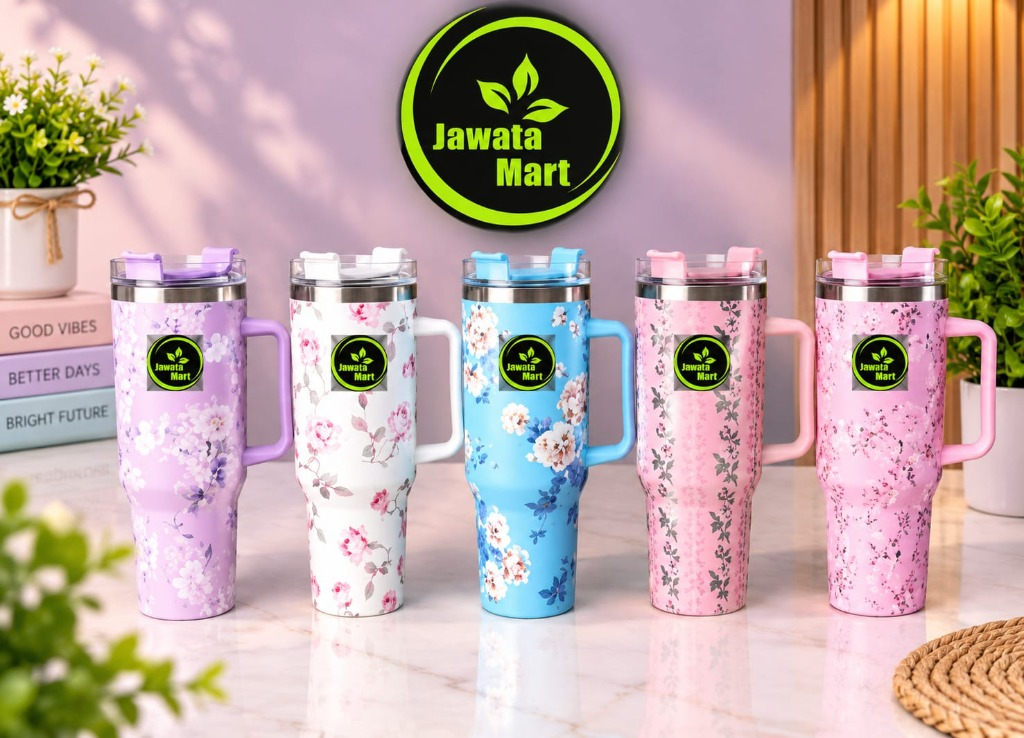
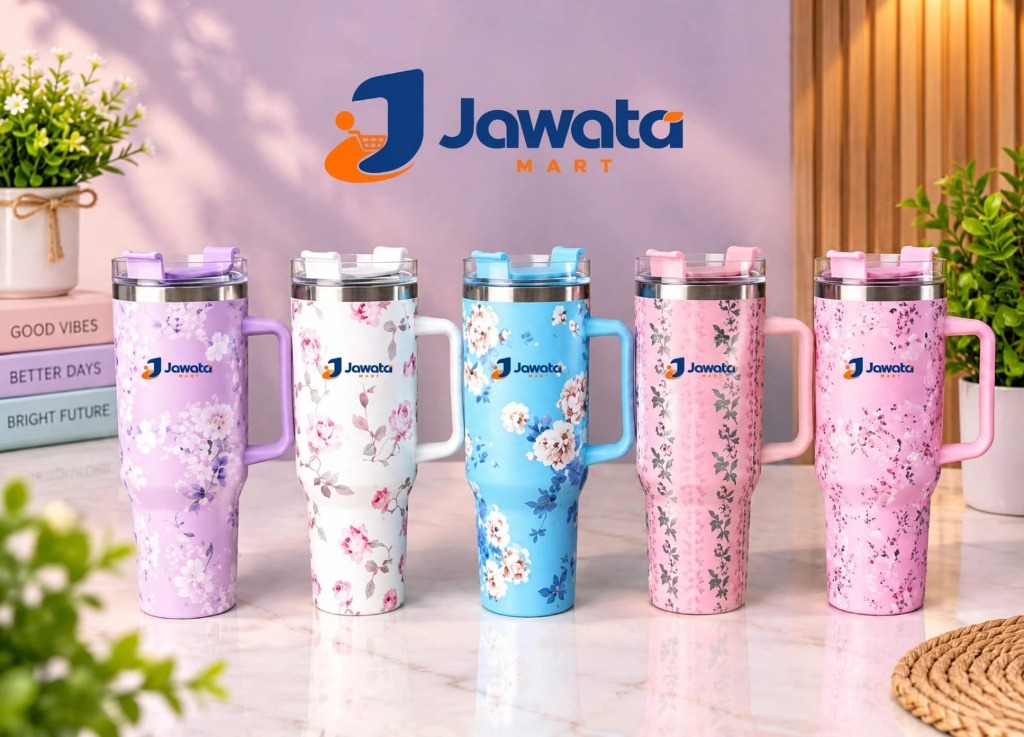
feat(catalog): update waterpot/tumbler pictures with official branded visuals and add floral tumbler product

diff --git a/apps/web/src/lib/sample-data.ts b/apps/web/src/lib/sample-data.ts
@@ -313,105 +313,6 @@ export const INITIAL_CATEGORIES: CategoryItem[] = [
 ];
 export const INITIAL_PRODUCTS: ProductItem[] = [
   {
-    id: 'p-fas-mens-panjabi',
-    name: "Premium Semi-Long Cotton Embroidered Men's Panjabi",
-    slug: 'premium-semi-long-cotton-embroidered-mens-panjabi',
-    categoryId: 'cat-fashion',
-    categoryName: 'Fashion',
-    categorySlug: 'fashion',
-    subCategoryId: 'sub-mens-fashion',
-    subCategoryName: "Men's Fashion & Panjabi",
-    subCategorySlug: 'mens-fashion',
-    brand: 'Jawata Mart',
-    price: 1850,
-    originalPrice: 2450,
-    discount: 24,
-    stock: 45,
-    sku: 'FAS-PANJ-01',
-    image: 'https://images.unsplash.com/photo-1597983073493-88cd35cf93b0?w=600&h=600&fit=crop',
-    images: ['https://images.unsplash.com/photo-1597983073493-88cd35cf93b0?w=600&h=600&fit=crop'],
-    description: '100% fine cotton fabric with subtle collar and placket embroidery. Highly comfortable for Eid, Jummah, weddings, and formal occasions.',
-    specifications: {
-      Fabric: '100% Pure Combed Cotton',
-      Cut: 'Slim-Regular Semi-Long Fit',
-      Collar: 'Band / Mandarin Collar with Embroidery',
-      Occasion: 'Festive, Traditional, Eid, Casual',
-    },
-    badge: 'Trending',
-    isFeatured: true,
-    isBestSeller: true,
-    isNew: true,
-    isActive: true,
-    rating: 4.9,
-    reviewCount: 38,
-  },
-  {
-    id: 'p-fas-oxford-shirt',
-    name: "Men's Smart Casual 100% Cotton Oxford Long Sleeve Shirt",
-    slug: 'mens-smart-casual-100-cotton-oxford-long-sleeve-shirt',
-    categoryId: 'cat-fashion',
-    categoryName: 'Fashion',
-    categorySlug: 'fashion',
-    subCategoryId: 'sub-casual-shirts-polo',
-    subCategoryName: 'Casual Shirts & Polo',
-    subCategorySlug: 'casual-shirts-polo',
-    brand: 'Jawata Mart',
-    price: 1250,
-    originalPrice: 1650,
-    discount: 24,
-    stock: 60,
-    sku: 'FAS-SHIRT-03',
-    image: 'https://images.unsplash.com/photo-1602810318383-e386cc2a3ccf?w=600&h=600&fit=crop',
-    images: ['https://images.unsplash.com/photo-1602810318383-e386cc2a3ccf?w=600&h=600&fit=crop'],
-    description: 'Breathable, wrinkle-resistant premium Oxford cotton casual shirt with button-down collar. Perfect for office, university, or evening outings.',
-    specifications: {
-      Material: '100% Pre-washed Oxford Cotton',
-      Fit: 'Modern Smart Fit',
-      Sleeve: 'Long Sleeve with Adjustable Cuffs',
-      Pocket: 'Single Chest Patch Pocket',
-    },
-    badge: 'Best Value',
-    isFeatured: true,
-    isBestSeller: false,
-    isNew: true,
-    isActive: true,
-    rating: 4.8,
-    reviewCount: 29,
-  },
-  {
-    id: 'p-fas-leather-belt-wallet',
-    name: "Genuine Leather Men's Formal Belt & Bi-fold Wallet Gift Combo",
-    slug: 'genuine-leather-mens-formal-belt-bi-fold-wallet-gift-combo',
-    categoryId: 'cat-fashion',
-    categoryName: 'Fashion',
-    categorySlug: 'fashion',
-    subCategoryId: 'sub-fashion-accessories',
-    subCategoryName: 'Fashion Accessories & Belts',
-    subCategorySlug: 'fashion-accessories',
-    brand: 'Jawata Mart',
-    price: 1150,
-    originalPrice: 1500,
-    discount: 23,
-    stock: 50,
-    sku: 'FAS-ACC-05',
-    image: 'https://images.unsplash.com/photo-1627123424574-724758594e93?w=600&h=600&fit=crop',
-    images: ['https://images.unsplash.com/photo-1627123424574-724758594e93?w=600&h=600&fit=crop'],
-    description: 'Handcrafted top-grain cowhide leather belt with brushed alloy buckle paired with a multi-card RFID-protected leather bi-fold wallet in a gift box.',
-    specifications: {
-      Material: '100% Genuine Top Grain Cow Leather',
-      BeltLength: 'Adjustable 32 - 42 inches',
-      WalletCapacity: '8 Card Slots, 2 Cash Compartments, ID Window',
-      Packaging: 'Luxury Matte Black Gift Box Included',
-    },
-    badge: 'Gift Choice',
-    isFeatured: true,
-    isBestSeller: false,
-    isNew: true,
-    isActive: true,
-    rating: 5.0,
-    reviewCount: 25,
-  },
-  {
     id: 'p-org-pure-cow-ghee',
     name: 'Jawata Mart Special Offer Danadar Pure Cow Ghee (খাঁটি দানাদার গাওয়া ঘি - ৫০০ গ্রাম)',
     slug: 'jawata-mart-special-offer-danadar-pure-cow-ghee-500g',
@@ -2115,36 +2016,6 @@ export const INITIAL_PRODUCTS: ProductItem[] = [
     reviewCount: 320,
   },
 
-  // 6. Gift Item
-  {
-    id: 'p-gift-islamic-box',
-    name: 'Luxury Velvet Islamic Gift Box (Quran, Prayer Mat & Crystal Tasbeeh)',
-    slug: 'luxury-velvet-islamic-gift-box',
-    categoryId: 'cat-gift-item',
-    categoryName: 'Gift Item',
-    categorySlug: 'gift-item',
-    subCategoryId: 'sub-islamic-gift-sets',
-    subCategoryName: 'Islamic Gift Sets',
-    subCategorySlug: 'islamic-gift-sets',
-    brand: 'Jawata Mart',
-    price: 2450,
-    originalPrice: 3200,
-    discount: 23,
-    stock: 30,
-    sku: 'JM-GFT-ISL-01',
-    image: 'https://images.unsplash.com/photo-1513885535751-8b9238bd345a?w=600&h=600&fit=crop',
-    images: ['https://images.unsplash.com/photo-1513885535751-8b9238bd345a?w=600&h=600&fit=crop'],
-    description: 'Gold-embossed Quran Sharif, Turkish plush velvet Janamaz, fragrant Oud Attar, and 99-bead crystal Tasbeeh.',
-    specifications: { 'Box Material': 'Velvet Gift Trunk', 'Contents': 'Quran + Janamaz + Attar + Tasbeeh', 'Occasion': 'Eid, Hajj, Nikah' },
-    badge: 'Premium Gift',
-    isFeatured: true,
-    isBestSeller: true,
-    isNew: true,
-    isActive: true,
-    rating: 5.0,
-    reviewCount: 86,
-  },
-
   // 7. Home Tex
   {
     id: 'p-htex-curtain-luxury',
@@ -2264,6 +2135,45 @@ export const INITIAL_PRODUCTS: ProductItem[] = [
     rating: 4.9,
     reviewCount: 75,
   },
+  {
+    id: 'p-ktc-waterpot-floral-tumbler',
+    name: 'Luxury Insulated Stainless Steel Floral Water Tumbler & Flask (1200ml with Handle & Straw)',
+    slug: 'luxury-insulated-floral-water-tumbler-flask-1200ml',
+    categoryId: 'cat-kitchen-items',
+    categoryName: 'Kitchen Items',
+    categorySlug: 'kitchen-items',
+    subCategoryId: 'sub-kitchen-storage',
+    subCategoryName: 'Kitchen Storage & Organizers',
+    subCategorySlug: 'kitchen-storage',
+    brand: 'Jawata Mart',
+    price: 1450,
+    originalPrice: 1850,
+    discount: 22,
+    stock: 50,
+    sku: 'JM-KTC-TMB-01',
+    image: '/images/banner-tumbler-collection.jpg',
+    images: [
+      '/images/banner-tumbler-collection.jpg',
+      '/images/banner-tumbler-pink-giftbox.jpg',
+      '/images/banner-tumbler-wide.jpg',
+    ],
+    description: 'প্রিমিয়াম ফুড-গ্রেড স্টেইনলেস স্টিল ডাবল-ওয়াল ভ্যাকুয়াম ইনসুলেটেড ফ্লোরাল ওয়াটার পট ও টাম্বলার। দীর্ঘ সময় পানীয় ঠান্ডা বা গরম রাখে। সাথে পাচ্ছেন ম্যাচিং স্ট্র, শক্ত হ্যান্ডেল এবং প্রিমিয়াম গিফট বক্স।',
+    specifications: {
+      'ধারণক্ষমতা (Capacity)': '1200 ml / 40 oz',
+      'উপাদান (Material)': 'Food Grade 304 Stainless Steel (BPA Free)',
+      'তাপ ধরে রাখার ক্ষমতা': '১২+ ঘন্টা গরম এবং ২৪+ ঘন্টা ঠান্ডা',
+      'এক্সেসরিজ': 'প্রিমিয়াম স্ট্র ও কমফোর্টেবল হ্যান্ডেল সহ',
+      'প্যাকেজিং': 'এক্সক্লুসিভ ফ্লোরাল গিফট বক্স',
+    },
+    badge: 'Trending',
+    isFeatured: true,
+    isBestSeller: true,
+    isNew: true,
+    isActive: true,
+    rating: 4.9,
+    reviewCount: 38,
+  },
+
 
   // 11. Health Care & Skin Care
   {
@@ -2373,7 +2283,7 @@ export const INITIAL_BANNERS: BannerItem[] = [
     subtitle: '',
     image: '/images/banner-tumbler-collection.jpg',
     ctaText: 'Shop Tumblers',
-    ctaLink: '/category/kitchen-items',
+    ctaLink: '/products/luxury-insulated-floral-water-tumbler-flask-1200ml',
     badge: 'Trending Now',
     order: 2,
     isActive: true,
@@ -2384,7 +2294,7 @@ export const INITIAL_BANNERS: BannerItem[] = [
     subtitle: 'Double-wall stainless steel vacuum flask with matching designer box & straw — keeps drinks fresh for hours.',
     image: '/images/banner-tumbler-pink-giftbox.jpg',
     ctaText: 'Explore Tumblers',
-    ctaLink: '/category/kitchen-items',
+    ctaLink: '/products/luxury-insulated-floral-water-tumbler-flask-1200ml',
     badge: 'Premium Gift',
     order: 3,
     isActive: true,
@@ -2540,7 +2450,7 @@ export const INITIAL_REVIEWS = [
     location: 'Uttara, Dhaka',
     rating: 5,
     date: '20 Feb 2026',
-    comment: 'Paid with bKash Send Money. The verification was confirmed within 15 minutes and the Panjabi arrived the next morning. Highly recommended!',
+    comment: 'Paid with bKash Send Money. The verification was confirmed within 15 minutes and the parcel arrived the next morning. Highly recommended!',
     verified: true,
     avatar: 'KU',
   },

diff --git a/apps/web/src/lib/db-service.ts b/apps/web/src/lib/db-service.ts
@@ -1,3 +1,5 @@
+import fs from 'fs';
+import path from 'path';
 import prisma from './prisma';
 import {
   INITIAL_CATEGORIES,
@@ -17,8 +19,54 @@ import {
   PaymentStatus,
 } from './types';
 
+const DELETED_FILE = path.join(process.cwd(), 'data', 'deleted-products.json');
+
+const DEFAULT_BLOCKED_IDS = [
+  'p-fas-mens-panjabi',
+  'p-fas-oxford-shirt',
+  'p-fas-leather-belt-wallet',
+  'p-gift-islamic-box',
+  'p-drv-bag-3pc-ladies-set',
+  'premium-semi-long-cotton-embroidered-mens-panjabi',
+  'mens-smart-casual-100-cotton-oxford-long-sleeve-shirt',
+  'genuine-leather-mens-formal-belt-bi-fold-wallet-gift-combo',
+  'luxury-velvet-islamic-gift-box',
+  'luxury-3-in-1-ladies-backpack-round-crossbody-card-wallet-set',
+];
+
+function loadDeletedIds(): Set<string> {
+  try {
+    if (fs.existsSync(DELETED_FILE)) {
+      const data = JSON.parse(fs.readFileSync(DELETED_FILE, 'utf8'));
+      if (Array.isArray(data)) return new Set([...DEFAULT_BLOCKED_IDS, ...data]);
+    }
+  } catch (err) {
+    // Ignore read errors
+  }
+  return new Set(DEFAULT_BLOCKED_IDS);
+}
+
+function saveDeletedId(idOrSlug: string, additionalSlug?: string) {
+  try {
+    const dir = path.dirname(DELETED_FILE);
+    if (!fs.existsSync(dir)) fs.mkdirSync(dir, { recursive: true });
+    const current = loadDeletedIds();
+    current.add(idOrSlug);
+    if (additionalSlug) current.add(additionalSlug);
+    fs.writeFileSync(DELETED_FILE, JSON.stringify(Array.from(current), null, 2), 'utf8');
+  } catch (err) {
+    console.error('Error saving deleted products file:', err);
+  }
+}
+
+function isNotDeleted(p: any): boolean {
+  if (!p) return false;
+  const del = loadDeletedIds();
+  return !del.has(p.id) && !del.has(p.slug);
+}
+
 // In-memory runtime cache for development/fallback
-let memoryProducts: ProductItem[] = [...INITIAL_PRODUCTS];
+let memoryProducts: ProductItem[] = [...INITIAL_PRODUCTS].filter(isNotDeleted);
 let memoryCategories: CategoryItem[] = [...INITIAL_CATEGORIES];
 let memoryOrders: OrderRecord[] = [
   {
@@ -231,7 +279,7 @@ export const dbService = {
               if (pickle) mapped.push(pickle);
             }
           }
-          const result = mapped.filter(isAllowedOrganicProduct);
+          const result = mapped.filter(isAllowedOrganicProduct).filter(isNotDeleted);
           productCache.set(cacheKey, { data: result, time: Date.now() });
           return result;
         }
@@ -241,7 +289,7 @@ export const dbService = {
     }
 
     // Memory Store Filtering
-    let list = memoryProducts.filter((p) => p.isActive).filter(isAllowedOrganicProduct);
+    let list = memoryProducts.filter((p) => p.isActive).filter(isAllowedOrganicProduct).filter(isNotDeleted);
     if (params?.categorySlug) {
       list = list.filter((p) => p.categorySlug === params.categorySlug);
     }
@@ -280,6 +328,7 @@ export const dbService = {
   },
 
   async getProductBySlug(slug: string): Promise<ProductItem | null> {
+    if (!isNotDeleted({ slug })) return null;
     const hit = singleProductCache.get(slug);
     if (hit && Date.now() - hit.time < CACHE_TTL) {
       return hit.data;
@@ -419,12 +468,17 @@ export const dbService = {
   },
 
   async deleteProduct(id: string): Promise<boolean> {
+    let productSlug = '';
+    const memItem = memoryProducts.find((p) => p.id === id || p.slug === id);
+    if (memItem) productSlug = memItem.slug;
+
     try {
       if (process.env.DATABASE_URL && prisma.product) {
         const existing = await prisma.product.findFirst({
           where: { OR: [{ id }, { slug: id }] },
         });
         if (existing) {
+          productSlug = existing.slug;
           await prisma.productVariant.deleteMany({ where: { productId: existing.id } }).catch(() => {});
           await prisma.review.deleteMany({ where: { productId: existing.id } }).catch(() => {});
           await prisma.orderItem.updateMany({
@@ -438,7 +492,10 @@ export const dbService = {
       console.error('Error permanently deleting product:', e);
     }
 
-    memoryProducts = memoryProducts.filter((p) => p.id !== id && p.slug !== id);
+    saveDeletedId(id, productSlug);
+    memoryProducts = memoryProducts.filter(
+      (p) => p.id !== id && p.slug !== id && (productSlug ? p.slug !== productSlug : true)
+    );
     productCache.clear();
     singleProductCache.clear();
     return true;
